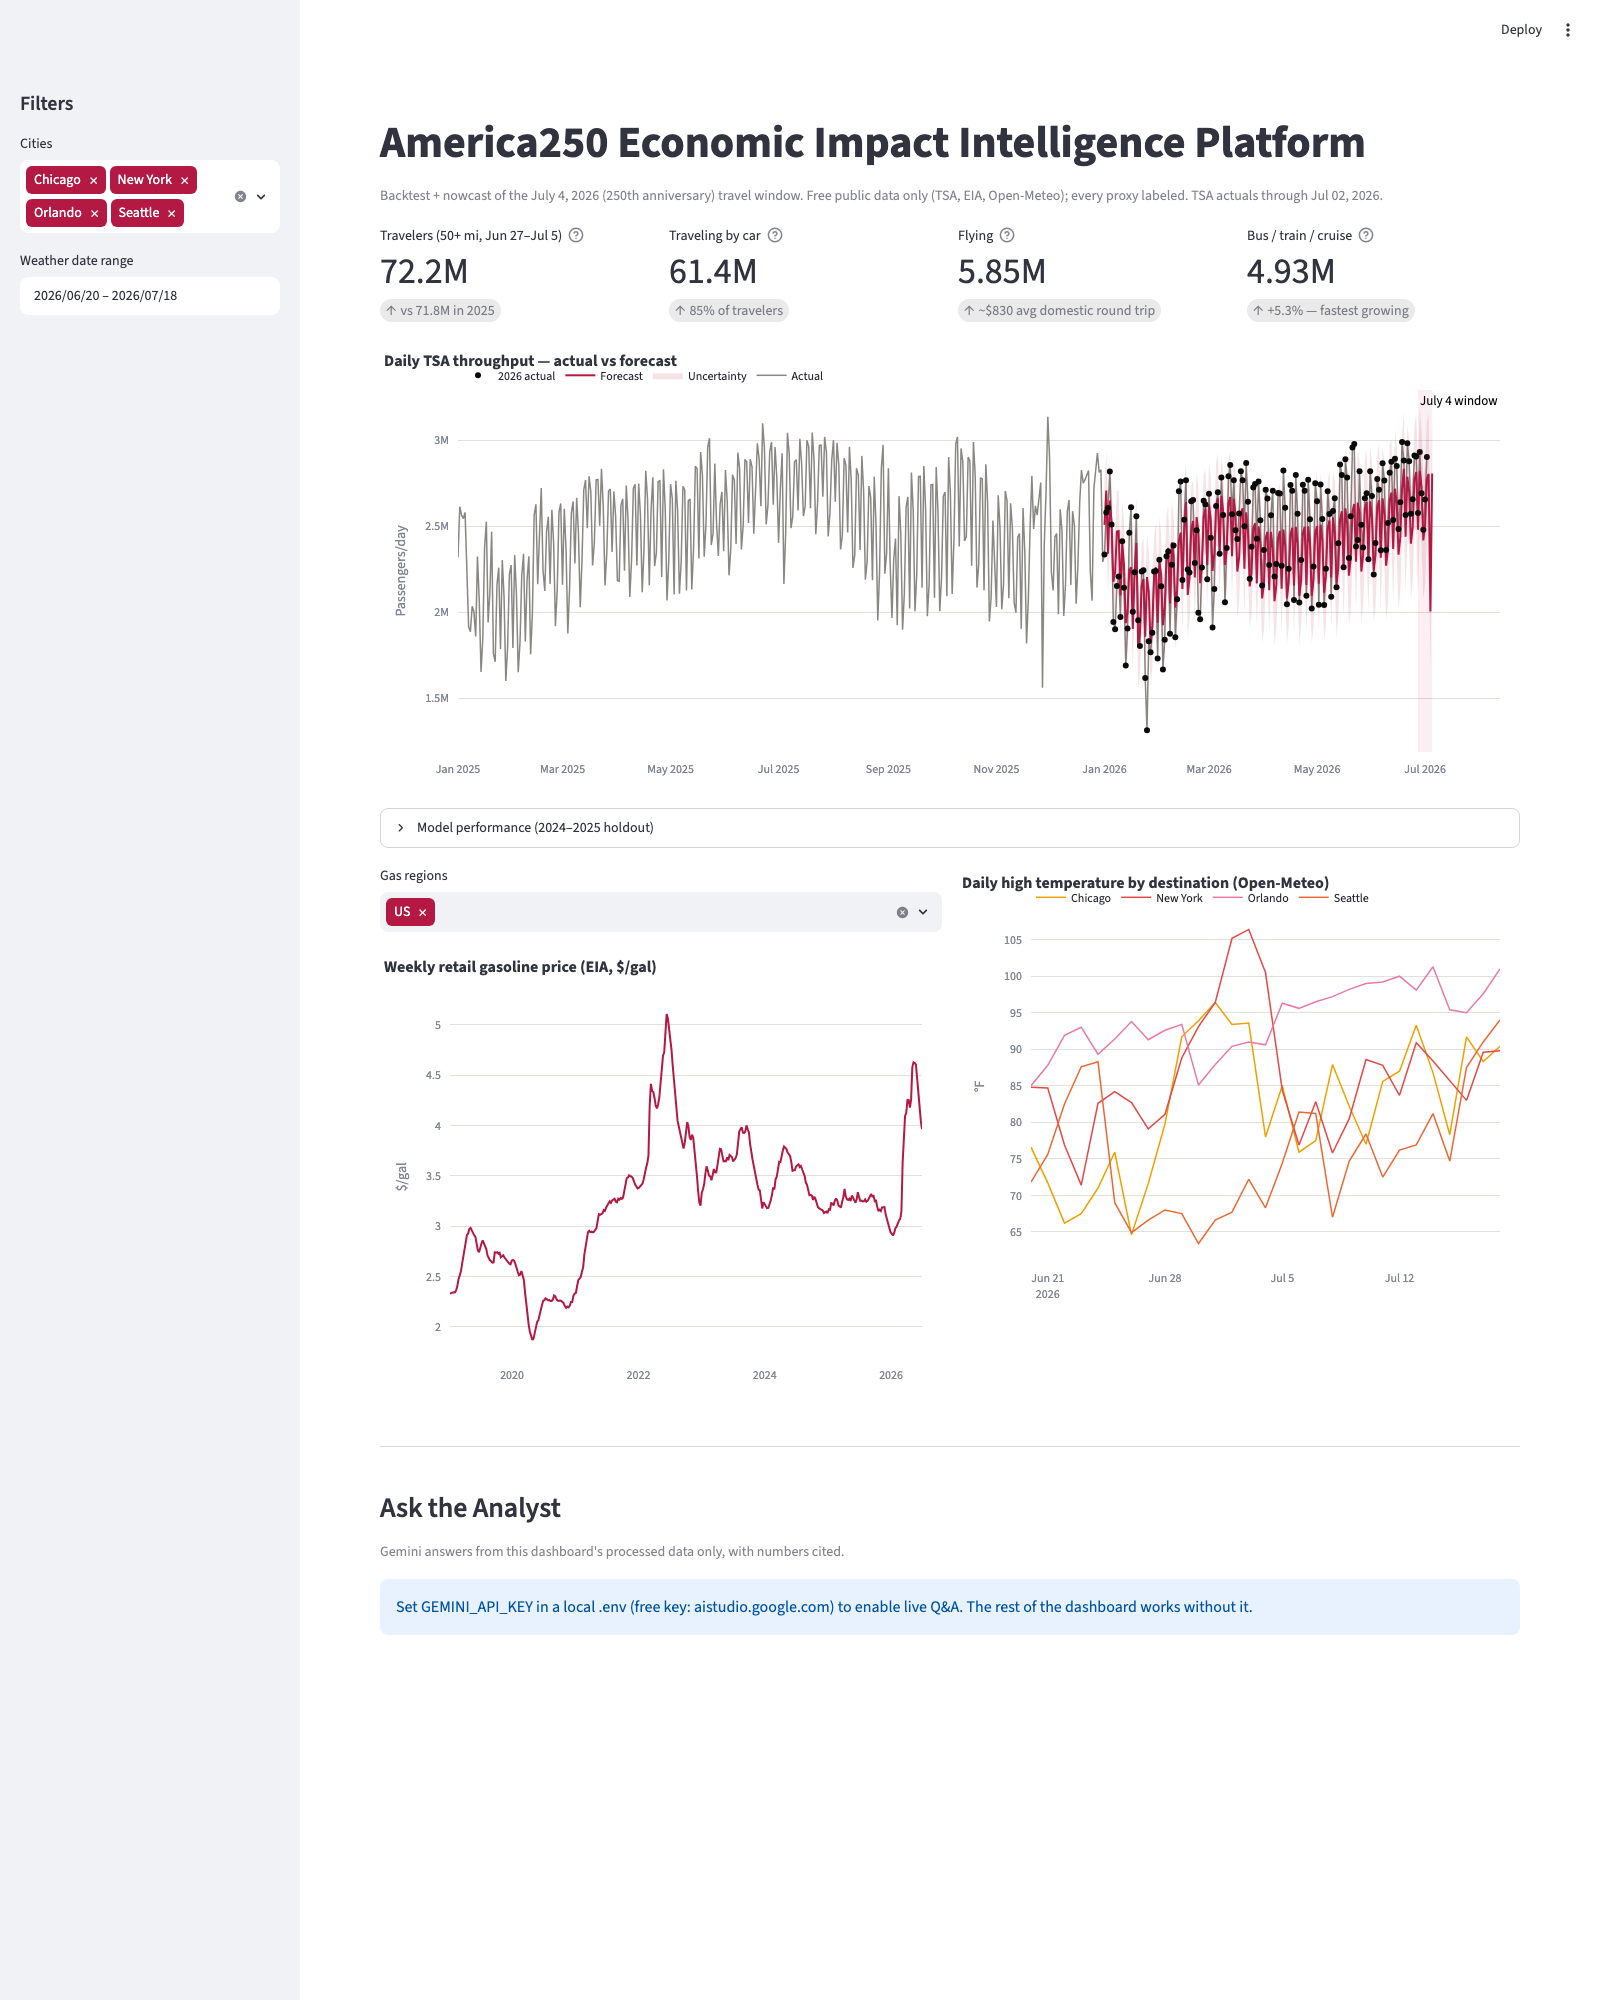
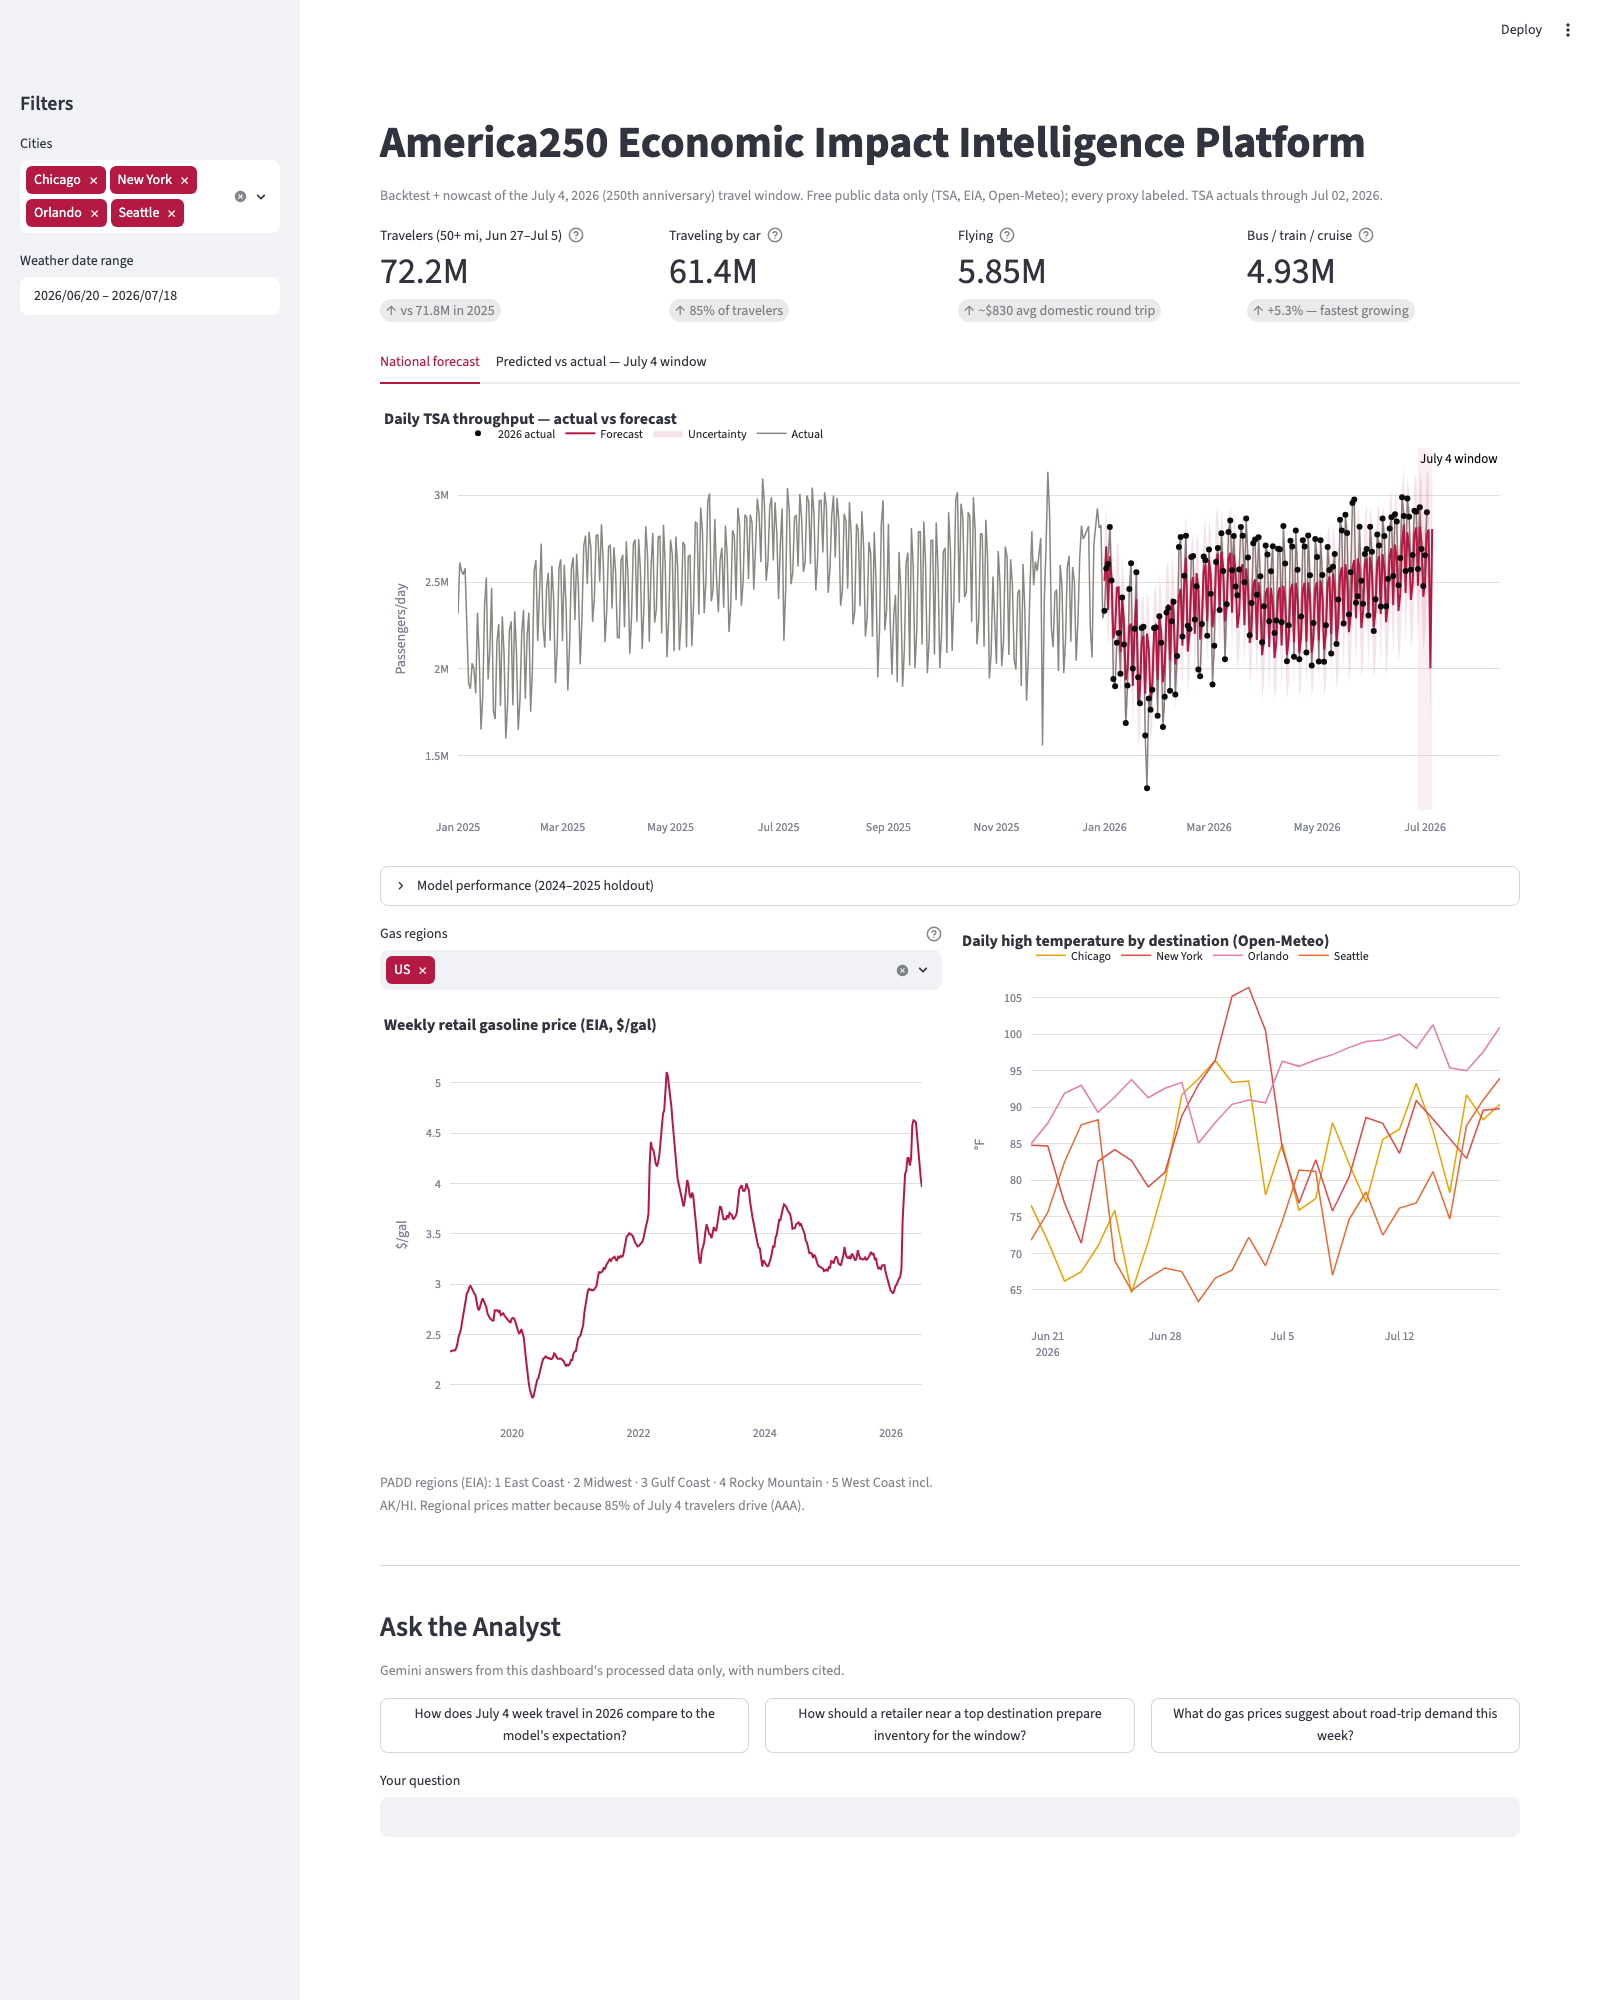
feat: predicted-vs-actual validation tab with post-mortem
- src/model/validate.py: window error table + deterministic written
  post-mortem (works offline, no LLM dependency)
- Tabbed layout: national forecast / July 4 window validation
- Live-refresh button pulls newer TSA actuals with graceful fallback
- KPI row: days observed, interval coverage, live MAPE, bias

diff --git a/app/main.py b/app/main.py
@@ -12,7 +12,9 @@ import streamlit as st
 from dotenv import load_dotenv
 
 from app.analyst import EXAMPLE_QUESTIONS, ask_analyst, build_context
-from app.charts import forecast_chart, gas_chart, weather_chart
+from app.charts import (forecast_chart, gas_chart, validation_chart,
+                        weather_chart)
+from src.model.validate import post_mortem, window_errors
 from app.data import (AAA_HEADLINES, load_forecast, load_gas, load_metrics,
                       load_national_daily, load_weather)
 
@@ -43,25 +45,73 @@ start, end = st.sidebar.date_input(
     value=(pd.Timestamp("2026-06-20").date(), weather.date.max().date()),
     min_value=weather.date.min().date(), max_value=weather.date.max().date())
 
-st.plotly_chart(forecast_chart(daily, forecast), width='stretch')
-with st.expander("Model performance (2024–2025 holdout)"):
-    st.markdown(
-        "**How to read this:** each model was trained on history, then asked to "
-        "predict all of 2024–2025 — data it never saw. Scoring those blind "
-        "predictions against what actually happened tells us which model to "
-        "trust for 2026.\n"
-        "- **MAE** — average daily miss, in passengers (vs ~2.5M/day typical).\n"
-        "- **MAPE** — the same miss as a percentage; lower is better.\n")
-    st.dataframe(metrics, hide_index=True)
-    st.markdown(
-        "**Key finding:** the two Prophet rows differ only in COVID handling — "
-        "keeping 2020–21 *with an indicator flag* (6.3% MAPE) beat deleting "
-        "those years (9.7%). The messy years still carry seasonal signal; the "
-        "flag stops the crash from reading as a recurring pattern. The SARIMA "
-        "baseline (9.2%) confirms a simpler model wouldn't have done as well. "
-        "The winner was refit through 2025 to produce the forecast above.")
-    st.caption("Gas price is forward-filled weekly→daily (proxy). Future gas "
-               "held at last observed value. TSA public data starts 2019.")
+tab_forecast, tab_validate = st.tabs(
+    ["National forecast", "Predicted vs actual — July 4 window"])
+
+with tab_validate:
+    if st.button("Check TSA for newer actuals",
+                 help="Fetches tsa.gov live; falls back to committed data if "
+                      "unreachable. Committed data updates via run_pipeline.py."):
+        try:
+            from src.ingest.tsa import BASE_URL, fetch_page, parse_tsa_html
+            latest = parse_tsa_html(fetch_page(BASE_URL))
+            merged = forecast.merge(
+                latest.rename(columns={"tsa_throughput": "live"}),
+                on="date", how="left")
+            newer = merged["actual"].isna() & merged["live"].notna()
+            if newer.any():
+                forecast = forecast.assign(
+                    actual=merged["actual"].fillna(merged["live"]))
+                st.success(f"Pulled {int(newer.sum())} newer day(s) from "
+                           "tsa.gov (this session only).")
+            else:
+                st.info("No newer days published yet — committed data is "
+                        "already current.")
+        except Exception:
+            st.warning("Could not reach tsa.gov — showing committed data.")
+
+    errors = window_errors(forecast)
+    if len(errors):
+        m1, m2, m3, m4 = st.columns(4)
+        m1.metric("Window days observed", f"{len(errors)} / 9")
+        m2.metric("Inside forecast interval",
+                  f"{int(errors.inside_interval.sum())} / {len(errors)}")
+        m3.metric("Live MAPE", f"{errors.pct_error.abs().mean():.1f}%")
+        bias = errors.pct_error.mean()
+        m4.metric("Bias vs forecast", f"{bias:+.1f}%",
+                  "actuals running hot" if bias > 0 else "actuals running cool",
+                  delta_color="off")
+    st.plotly_chart(validation_chart(forecast), width='stretch')
+    if len(errors):
+        show = errors.assign(date=errors.date.dt.strftime("%a %b %d"))[
+            ["date", "yhat", "actual", "error", "pct_error", "inside_interval"]]
+        show.columns = ["Date", "Predicted", "Actual", "Error", "% error",
+                        "In interval"]
+        st.dataframe(show.round(0), hide_index=True)
+    st.markdown("#### Post-mortem")
+    best_mape = metrics[metrics.model.str.startswith("prophet")].mape.min()
+    st.markdown(post_mortem(errors, holdout_mape=round(best_mape, 2)))
+
+with tab_forecast:
+    st.plotly_chart(forecast_chart(daily, forecast), width='stretch')
+    with st.expander("Model performance (2024–2025 holdout)"):
+        st.markdown(
+            "**How to read this:** each model was trained on history, then asked "
+            "to predict all of 2024–2025 — data it never saw. Scoring those blind "
+            "predictions against what actually happened tells us which model to "
+            "trust for 2026.\n"
+            "- **MAE** — average daily miss, in passengers (vs ~2.5M/day typical).\n"
+            "- **MAPE** — the same miss as a percentage; lower is better.\n")
+        st.dataframe(metrics, hide_index=True)
+        st.markdown(
+            "**Key finding:** the two Prophet rows differ only in COVID handling — "
+            "keeping 2020–21 *with an indicator flag* (6.3% MAPE) beat deleting "
+            "those years (9.7%). The messy years still carry seasonal signal; the "
+            "flag stops the crash from reading as a recurring pattern. The SARIMA "
+            "baseline (9.2%) confirms a simpler model wouldn't have done as well. "
+            "The winner was refit through 2025 to produce the forecast above.")
+        st.caption("Gas price is forward-filled weekly→daily (proxy). Future gas "
+                   "held at last observed value. TSA public data starts 2019.")
 
 left, right = st.columns(2)
 with left:

diff --git a/src/model/validate.py b/src/model/validate.py
@@ -1,0 +1,64 @@
+"""Predicted-vs-actual validation for the July 4, 2026 window.
+
+The post-mortem is generated deterministically from the numbers (no LLM),
+so the closing story works offline and is reproducible.
+"""
+import pandas as pd
+
+WINDOW_START, WINDOW_END = "2026-06-27", "2026-07-05"
+
+
+def window_errors(forecast: pd.DataFrame) -> pd.DataFrame:
+    """Error table for window days that have an observed actual."""
+    w = forecast[forecast.date.between(WINDOW_START, WINDOW_END)].copy()
+    w = w.dropna(subset=["actual"]).reset_index(drop=True)
+    w["error"] = w["actual"] - w["yhat"]
+    w["pct_error"] = (w["actual"] - w["yhat"]) / w["actual"] * 100
+    w["inside_interval"] = w["actual"].between(w["yhat_lower"], w["yhat_upper"])
+    return w
+
+
+def post_mortem(errors: pd.DataFrame, holdout_mape: float) -> str:
+    """Plain-English write-up of how the forecast is holding up."""
+    window_days = pd.date_range(WINDOW_START, WINDOW_END)
+    n_total, n_obs = len(window_days), len(errors)
+    if n_obs == 0:
+        return (
+            "No actuals for the July 4 window yet — TSA publishes with about "
+            "a one-day lag. Check back after June 27, 2026."
+        )
+
+    coverage = int(errors["inside_interval"].sum())
+    live_mape = errors["pct_error"].abs().mean()
+    bias = errors["pct_error"].mean()
+    direction = "above" if bias > 0 else "below"
+    best = errors.loc[errors["pct_error"].abs().idxmin()]
+    worst = errors.loc[errors["pct_error"].abs().idxmax()]
+
+    parts = [
+        f"**{n_obs} of {n_total}** window days observed so far. "
+        f"**{coverage} of {n_obs}** actuals landed inside the forecast's "
+        "uncertainty interval.",
+        f"Actuals are running **{abs(bias):.1f}% {direction}** the point "
+        f"forecast on average (live MAPE {live_mape:.1f}%, vs {holdout_mape} "
+        "on the 2024–25 holdout). "
+        + ("A positive bias is consistent with AAA's record 72.2M-traveler "
+           "projection: demand is outrunning a model trained on ordinary "
+           "years, exactly what a once-in-a-generation anniversary should do."
+           if bias > 0 else
+           "Actuals coming in under forecast suggests the anniversary surge "
+           "is materializing more on roads than in air travel."),
+        f"Closest call: {best.date:%b %d} (off by {best.pct_error:+.1f}%). "
+        f"Largest miss: {worst.date:%b %d} (off by {worst.pct_error:+.1f}%"
+        + (", outside the interval" if not worst.inside_interval else "")
+        + ").",
+        "Known model limitations feeding these gaps: gas price is held at the "
+        "last observed weekly value for future days, and the model cannot see "
+        "one-off 250th-anniversary events — both documented assumptions.",
+    ]
+    if n_obs < n_total:
+        parts.append(
+            f"{n_total - n_obs} day(s) still pending — TSA publishes with "
+            "about a one-day lag; rerun the pipeline to pull them in."
+        )
+    return "\n\n".join(parts)

diff --git a/tests/test_validate.py b/tests/test_validate.py
@@ -1,0 +1,42 @@
+import pandas as pd
+
+from src.model.validate import post_mortem, window_errors
+
+
+def _forecast():
+    return pd.DataFrame({
+        "date": pd.date_range("2026-06-27", periods=9),
+        "yhat": [2.5e6, 2.8e6, 2.7e6, 2.4e6, 2.5e6, 2.8e6, 2.8e6, 2.0e6, 2.8e6],
+        "yhat_lower": [2.1e6] * 9,
+        "yhat_upper": [3.1e6] * 9,
+        # first 6 days observed; last 3 pending; day 2 runs hot, day 3 misses low
+        "actual": [2575625.0, 2930672.0, 2690919.0, 2477905.0, 2654017.0,
+                   3200000.0, None, None, None],
+    })
+
+
+def test_window_errors():
+    err = window_errors(_forecast())
+    assert len(err) == 6  # only observed days
+    assert {"date", "yhat", "actual", "error", "pct_error",
+            "inside_interval"} <= set(err.columns)
+    first = err.iloc[0]
+    assert first["error"] == 2575625.0 - 2.5e6
+    assert bool(first["inside_interval"])
+    assert not bool(err.iloc[5]["inside_interval"])  # 3.2M > upper 3.1M
+
+
+def test_post_mortem_mentions_key_facts():
+    err = window_errors(_forecast())
+    text = post_mortem(err, holdout_mape=6.33)
+    assert "6 of 9" in text            # observed days
+    assert "5 of 6" in text            # interval coverage
+    assert "6.33" in text              # holdout comparison
+    assert "above" in text.lower()     # direction of bias (actuals ran hot)
+
+
+def test_post_mortem_handles_no_actuals():
+    fc = _forecast()
+    fc["actual"] = None
+    text = post_mortem(window_errors(fc), holdout_mape=6.33)
+    assert "No actuals" in text

diff --git a/app/charts.py b/app/charts.py
@@ -39,11 +39,11 @@ def forecast_chart(daily: pd.DataFrame, forecast: pd.DataFrame) -> go.Figure:
     hist = hist[hist.date >= "2025-01-01"]  # readable default zoom
     fig.add_scatter(x=hist.date, y=hist.tsa_throughput, name="Actual",
                     line=dict(color=NEUTRAL, width=1.5))
-    fig.add_scatter(x=forecast.date, y=forecast.yhat_upper, line=dict(width=0),
-                    showlegend=False, hoverinfo="skip")
-    fig.add_scatter(x=forecast.date, y=forecast.yhat_lower, fill="tonexty",
-                    fillcolor="rgba(179,25,66,0.12)", line=dict(width=0),
-                    name="Uncertainty", hoverinfo="skip")
+    fig.add_scatter(x=forecast.date, y=forecast.yhat_upper, mode="lines",
+                    line=dict(width=0), showlegend=False, hoverinfo="skip")
+    fig.add_scatter(x=forecast.date, y=forecast.yhat_lower, mode="lines",
+                    fill="tonexty", fillcolor="rgba(179,25,66,0.12)",
+                    line=dict(width=0), name="Uncertainty", hoverinfo="skip")
     fig.add_scatter(x=forecast.date, y=forecast.yhat, name="Forecast",
                     line=dict(color=ACCENT, width=2))
     actual26 = forecast.dropna(subset=["actual"])
@@ -53,6 +53,30 @@ def forecast_chart(daily: pd.DataFrame, forecast: pd.DataFrame) -> go.Figure:
                   line_width=0, annotation_text="July 4 window",
                   annotation_position="top left")
     fig.update_layout(title="Daily TSA throughput — actual vs forecast",
+                      yaxis_title="Passengers/day", **_LAYOUT)
+    return fig
+
+
+def validation_chart(forecast: pd.DataFrame) -> go.Figure:
+    """Window-zoomed predicted-vs-actual view."""
+    fig = go.Figure()
+    zoom = forecast[forecast.date.between("2026-06-20", "2026-07-05")]
+    fig.add_scatter(x=zoom.date, y=zoom.yhat_upper, mode="lines",
+                    line=dict(width=0), showlegend=False, hoverinfo="skip")
+    fig.add_scatter(x=zoom.date, y=zoom.yhat_lower, mode="lines",
+                    fill="tonexty", fillcolor="rgba(179,25,66,0.12)",
+                    line=dict(width=0), name="Uncertainty", hoverinfo="skip")
+    fig.add_scatter(x=zoom.date, y=zoom.yhat, name="Forecast",
+                    line=dict(color=ACCENT, width=2))
+    obs = zoom.dropna(subset=["actual"])
+    fig.add_scatter(x=obs.date, y=obs.actual, name="Actual",
+                    mode="lines+markers",
+                    line=dict(color=INK, width=1.5, dash="dot"),
+                    marker=dict(color=INK, size=8))
+    fig.add_vrect(x0=WINDOW_START, x1=WINDOW_END, fillcolor="rgba(179,25,66,0.05)",
+                  line_width=0, annotation_text="July 4 window",
+                  annotation_position="top left")
+    fig.update_layout(title="July 4 window — predicted vs actual",
                       yaxis_title="Passengers/day", **_LAYOUT)
     return fig
 